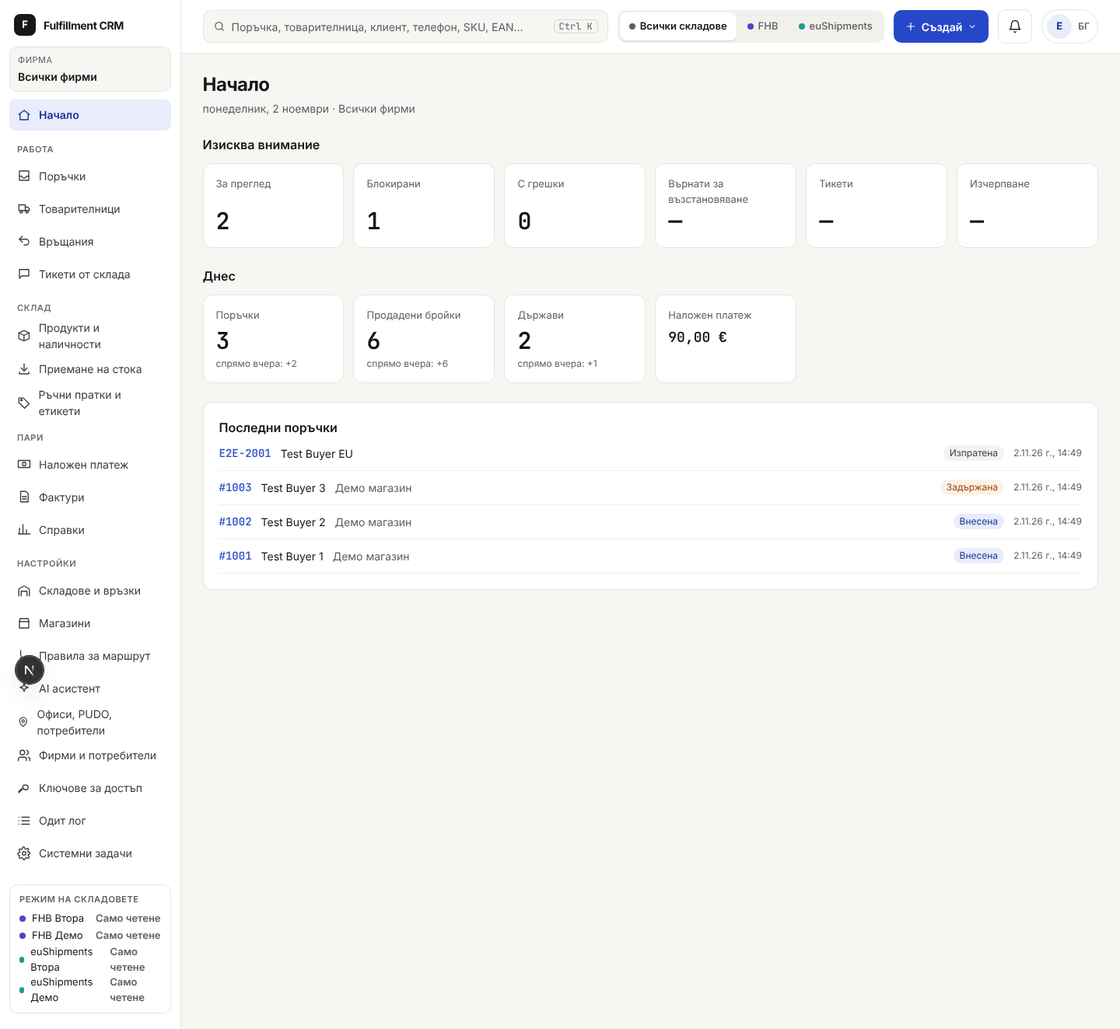
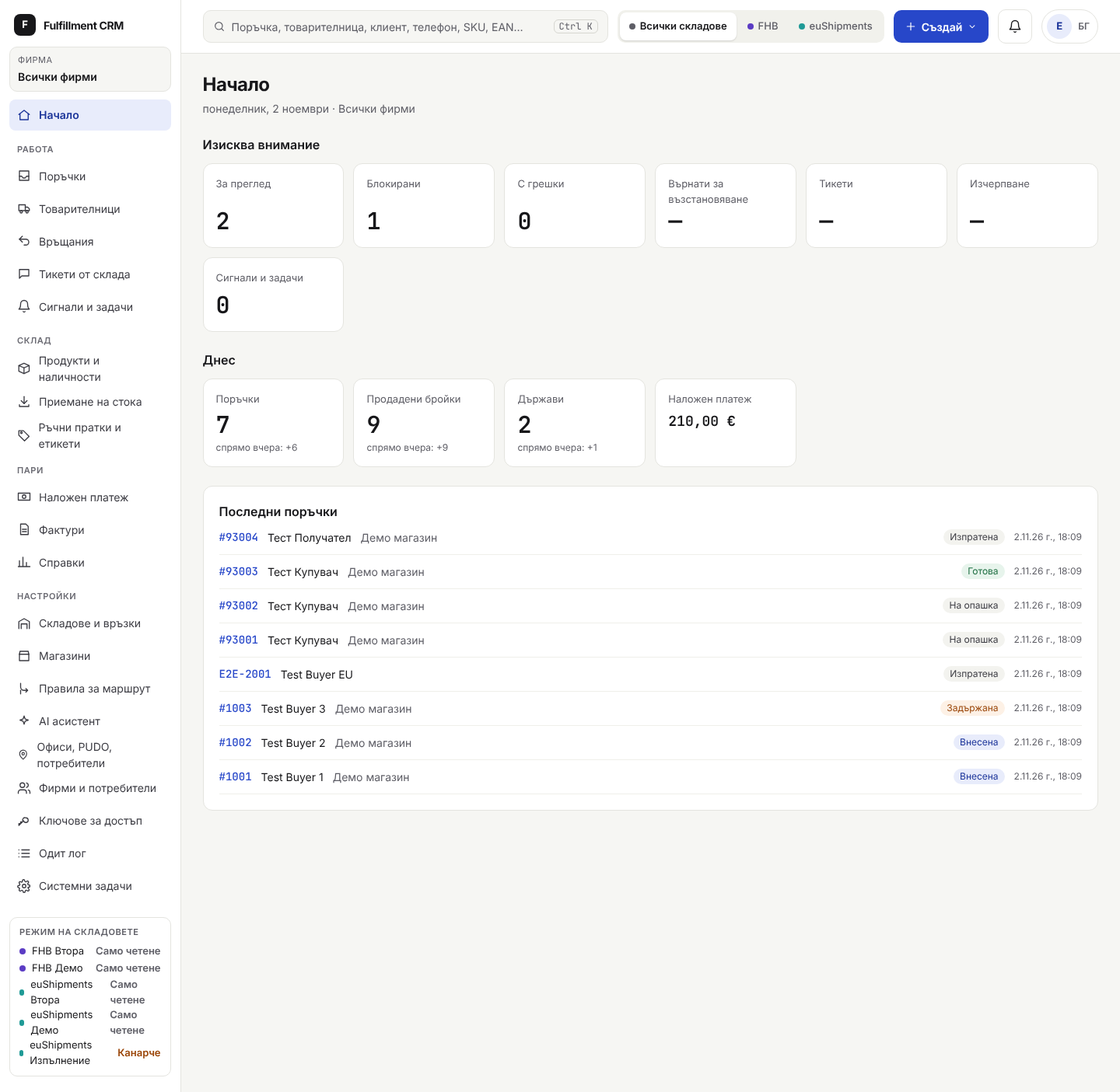
Wave 2 docs + e2e on a production build
- e2e runs against next build + next start by default (the dev server full-reloaded the login page in a loop
  on cold compiles under load); E2E_DEV=1 keeps next dev
- docs/audits/wave-2.md, docs/wave-2-notes.md, backlog P4-01..08 done, P4-09 and P5-00 added, progress

Claude-Session: https://claude.ai/code/session_01F3DAgXjb9pLKNH5LgMk1nD

diff --git a/playwright.config.ts b/playwright.config.ts
@@ -1,6 +1,7 @@
 import { defineConfig, devices } from "@playwright/test";
 
 const PORT = Number(process.env.E2E_PORT ?? 3100);
+const DEV = process.env.E2E_DEV === "1";
 
 export default defineConfig({
   testDir: "tests/e2e",
@@ -12,11 +13,17 @@ export default defineConfig({
   projects: [
     { name: "chromium", use: { ...devices["Desktop Chrome"], viewport: { width: 1440, height: 900 } } },
   ],
+  // Default: a production build (`next build` + `next start`), like Render. The dev server compiles routes on
+  // first use and, under load, full-reloads the login page in a loop. E2E_DEV=1 uses `next dev` for quick runs.
   webServer: {
-    command: `pnpm exec next dev --port ${PORT}`,
+    command: DEV ? `pnpm exec next dev --port ${PORT}` : `pnpm exec next build && pnpm exec next start --port ${PORT}`,
     url: `http://localhost:${PORT}/api/health`,
     reuseExistingServer: false,
-    timeout: 180_000,
-    env: { DATABASE_URL: process.env.E2E_DATABASE_URL ?? "", NODE_ENV: "development" },
+    timeout: DEV ? 180_000 : 600_000,
+    env: {
+      DATABASE_URL: process.env.E2E_DATABASE_URL ?? "",
+      NODE_ENV: DEV ? "development" : "production",
+      AUTH_URL: `http://localhost:${PORT}`,
+    },
   },
 });

diff --git a/docs/wave-2-notes.md b/docs/wave-2-notes.md
@@ -1,0 +1,202 @@
+# Wave 2 — builder notes (decisions, interfaces, behaviour changes)
+
+Verbatim hand-off notes of each wave-2 agent, in order. Synthetic data only.
+
+## build:core
+BLOCKED: []
+Branch wave2/core in /home/user/wt/w2-core has 3 commits. Nothing was pushed. Mark P4-01, P4-02 and P4-03 [x].
+
+INTERFACES FOR THE NEXT AGENTS
+- src/server/pipeline (P4-03)
+  - transition(tx, {orderId, to, cause, actor, source?, reason?, meta?, onlyFrom?, mode?}) and transitionOrder(accountId, input) are the only way to change Order.status.
+  - actor is {kind:"user",userId} | {kind:"system"} | {kind:"ai",level,policyId?}.
+  - mode "strict" (default for user and ai) throws TransitionError with code transition_not_allowed, transition_guard:<g> or transition_race. mode "follow" (default for system) returns {changed:false, reason}.
+  - Every move writes an OrderEvent in the same transaction. Moves by a user also write an AuditLog entry "order.status".
+  - Other helpers: recordInitialStatus (cause "created"), followShipment (vendor, forward only), registerGuard, and RULES / isAllowed / allowedTransitions / nextSteps for the decision bar.
+  - Causes: check_start, check_result, approve, reopen, hold, release (ON_HOLD → IMPORTED), cancel, shopify_cancelled, shopify_fulfilled, queue, submitting, submit_failed, vendor. VENDOR_FROM is the old euShipments ORDER_FROM table; statuses.ts re-exports it.
+  - Guards:
+    - approve: an AI actor needs level L2, and there must be an OrderCheck with hardCount 0 (no_check / hard_findings).
+    - cancel: users only, never with an active shipment (any Fulfillment not SUBMIT_FAILED/CANCELLED).
+    - release: refused for orders tagged shopify-test.
+  - P4-04: editing an order must call checkOrder again. P4-06: Fulfill should approve with cause "approve" and then call the existing submitFhbOrder / queueEuOrder, which now move the order to QUEUED themselves. The outbox liveMode gate is unchanged.
+- src/server/routing (P4-02)
+  - routeOrder(accountId, orderId) returns a RoutingDecision: connectionId/Name/Type, via rule|stock_fallback|none, ruleId, ruleNumber, ruleName, crossCompany, carrier {parcelService, courierId, serviceName, deliveryPointPolicy}, stock {status ok|insufficient|unknown, lines}, explanation {bg, en} (e.g. "Правило 3: BG + COD → FHB Kika; наличност OK"), and per-rule steps.
+  - loadRoutingContext + routeWithContext handle bulk; evaluateRouting / checkStock / describeMatch are pure.
+  - RoutingRule.match is the Zod RuleMatch {storeIds, countries, payment, tags (any), excludeTags, productIds (any line), requireStock}.
+  - Order of evaluation: priority ascending, first match wins, requireStock skips a rule without stock. The stock fallback picks an enabled FHB_V3/EUSHIPMENTS connection with stock for every line, own company first. FHB_JOY is never a routing target.
+  - Admin: list/create/update/delete/moveRoutingRule, permission routing.manage (OWNER/ADMIN), audited as routing.rule_created/updated/deleted/moved. Restricted members see and edit only rules whose connection and stores are in their companies.
+  - UI is /routing (already in the Настройки nav), with a "Пробвай с поръчка" box.
+- src/server/checks (P4-01)
+  - validateOrder(accountId, orderId, {connectionId?, persist?, now?}) returns {routing, connectionId, findings, hardCount, softCount, normalised {phone E.164, country}} and upserts the OrderCheck.
+  - Finding shape: {code, severity hard|soft, source order|routing|stock|fhb|eushipments, field, message_bg, message_en, suggestedFix?:{field, value}}. Findings are sorted hard first. euShipments codes are prefixed "eushipments."; "block" maps to hard.
+  - Vendor checks use the new read-only previewFhbOrderFindings (consumes no variable symbol) and previewEuOrderFindings (extracted from queueEuOrder; behaviour unchanged).
+  - checkOrder(accountId, orderId, {actor, connectionId?}) moves an order from IMPORTED/NEEDS_REVIEW/READY/APPROVED/SUBMIT_FAILED to CHECKING, then to READY when there are zero findings or NEEDS_REVIEW when there are any. Orders in other states are only re-validated.
+  - checkOrderAs(actor, ...) needs orders.review and the order in the actor's company scope. latestOrderCheck(accountId, orderId) returns the stored check.
+  - Queues: orders.check (stately, singletonKey orderId) and the orders.checkSweep cron (*/5), which picks up IMPORTED orders and orders stuck in CHECKING for more than 10 min.
+
+DECISIONS AND BEHAVIOUR CHANGES TO RECORD
+1. FHB now moves Order.status. Before, only Fulfillment.status moved (apply.ts said "left to P4-03"). Now: submitFhbOrder sets APPROVED/READY/SUBMIT_FAILED → QUEUED, which matches euShipments. A rejected create moves QUEUED/SUBMITTING → SUBMIT_FAILED. Order views follow the shipment forward only. An FHB or euShipments "deleted at vendor" still leaves the Order alone. A new test covers this.
+2. Once deployed, the worker's check sweep will move existing production orders that are IMPORTED to CHECKING and then READY or NEEDS_REVIEW. Nothing is auto-approved or sent.
+3. Findings live in OrderCheck. Review rows are left for P4-05, which should copy findings at decision time.
+4. A successful phone normalisation is not a finding. The E.164 value is in OrderCheck.normalised, so the UI can show original → corrected. Order-level COD rules need a CountrySetting for the destination, otherwise there is a hard finding.
+5. READY means no findings at all. Soft-only orders go to NEEDS_REVIEW.
+
+OPEN
+- The auditor subagent could not be run here; run it on wave2/core.
+- INTEGRATION_NOTES may want a line saying vendor statuses now drive Order.status for FHB too.
+
+## fix:core
+BLOCKED: []
+Wave 2 core audit fixes (commit 0b1d5e6).
+- The pipeline now gates submission. queueGate(tx, {orderId, userId, source, connectionId, rearmQueued}) must be called, with lockForUpdate('Order', id) held, before any vendor-write row is created. Only APPROVED or SUBMIT_FAILED orders can be queued; READY can no longer be queued. Wave-2 Fulfill/bulk code (P4-05/P4-06) must approve first and then submit.
+- Re-checking an APPROVED order means reopen (to NEEDS_REVIEW) and then checkOrder. checkOrder on an APPROVED order only validates and stores the check; the status does not change.
+- Approval needs a check whose stored fingerprint (OrderCheck.normalised.orderFingerprint) matches the current order data. Any edit to the recipient, address, amounts/COD, tags or lines needs a re-check. Approve accepts an optional meta.connectionId, which must equal check.connectionId (guard check_connection_mismatch). Checks stored before this change have no fingerprint and count as stale (dev data only).
+- A Shopify re-import that changes the data of a CHECKING/NEEDS_REVIEW/READY order moves it to IMPORTED (new system cause data_changed), and the existing sweep checks it again.
+- An AI actor is now {kind:'ai', level, policyId} with policyId required. The guard loads an enabled L2 AiPolicy with decisionType 'order_approval' (exported as AI_APPROVAL_DECISION). The P4/AI layer must create and use that decision type.
+- New TransitionError codes the UI should translate: transition_not_allowed (submit gate), transition_guard:check_stale, transition_guard:check_connection_mismatch, transition_guard:ai_policy_missing / ai_policy_disabled / ai_policy_not_l2, transition_guard:active_shipment.
+- Routing: a restricted admin no longer sees or changes rules that name another company's store. They cannot move a rule past an out-of-scope neighbour (routing_out_of_scope). The move action still swallows errors, as it did before.
+- Not changed: the LOW finding on fhb/apply.ts:308 is wrong. `message` is already built with scrubText(...) a few lines earlier (the 'rejected' case at about line 285), so the .slice(0, 500) is applied to scrubbed text. Left unchanged.
+- Follow-up (not done): the submit gate does not check that a fresh OrderCheck exists for the target connection, because the vendor queue functions run their own pre-flight for the actual connection. If routing/stock findings must also bind at submit time, add a queue guard and update the FHB/euShipments test fixtures, which create APPROVED orders without an OrderCheck. A reship after a vendor CANCELLED is refused by the gate, since CANCELLED is terminal; reships need their own cause when that feature is built.
+
+## build:review
+BLOCKED: []
+P4-04 and P4-05 are done, in one commit because the decision bar and the Review records depend on each other.
+
+Built:
+- src/server/review: diff.ts (pure; address edit schema, field-level diff), reasons.ts, service.ts (editOrderAddress, previewAddress, decideOrder), detail.ts (getOrderReview, listReviews).
+- src/app/actions/review.ts.
+- src/app/(app)/orders/[id]/page.tsx + review-ui.tsx (AddressEditor, ApplyFixButton, RecheckButton, DecisionBar, LazyDetails).
+- src/app/(app)/orders/reviews: review list and reason-code admin.
+
+Decisions:
+1. "Блокирай" maps to the existing pipeline cause `cancel`: the order goes to CANCELLED in the CRM only and Shopify is not touched. The Review decision is CANCEL. Reasons:
+   - The pipeline has no user path to BLOCKED; BLOCKED is vendor-reported, and the Shopify PRE_APPROVAL set excludes it.
+   - The ReviewDecision enum has no BLOCK value.
+   - Cancel stays refused while a shipment is active.
+   - Open question for the owner: if they want a reversible operator block instead, the core track needs a new pipeline cause/status and a new enum value.
+2. Review session model:
+   - The first address edit opens an undecided Review (decision null) for that reviewer, holding the findings seen at that moment.
+   - Each edit merges into its diff: the first `from` and the last `to` per field are kept, a field edited back to its start drops out, and each change records `via` = manual or suggested_fix:<code>.
+   - The decision closes the Review in the same transaction as the strict transition. A refused move rolls back the Review too.
+   - Approving with a non-empty diff is stored as EDIT_AND_APPROVE.
+3. Approve:
+   - Refused while the stored check has hard findings: an explicit "hard_findings" check plus the existing pipeline guards (no_check, check_stale).
+   - It only moves the order to APPROVED. No Fulfillment or outbox row is created.
+4. Address editing:
+   - Allowed only in IMPORTED, NEEDS_REVIEW, READY and ON_HOLD.
+   - Optimistic version check (Order.updatedAt), so a newer order is refused as "stale", not overwritten.
+   - Updates shippingAddress, Order.phone and Order.countryCode. The original stays in shippingAddressOriginal and is shown crossed out.
+   - Audited as order.address_edited, then re-checked with checkOrder.
+   - The Shopify import now also keeps an operator-corrected phone and country, not only the address.
+5. Suggested fixes: one click only for shippingAddress.* and phone. A COD suggestion is shown as text only, with the note that COD is corrected in Shopify.
+6. Time spent:
+   - Measured from the server-rendered openedAt, kept in client state so it survives refreshes after edits.
+   - Clamped to 0–2 h; a future timestamp is ignored. The client could forge it, but it is training data only.
+7. Reason codes:
+   - Built-in defaults (approve/hold/block plus "other", which requires a note) apply until the first admin change, which stores them.
+   - Codes are deactivated, never deleted. Required for hold and block, optional for approve.
+8. New permissions:
+   - orders.rawPayloads (OWNER, ADMIN): raw Shopify JSON, routing JSON and outbox payload/response on the order detail, mounted only when opened.
+   - reviews.read (OWNER, ADMIN, OPERATOR).
+   - reviews.reasonCodes (OWNER, ADMIN).
+9. Review list: /orders/reviews, linked from the order detail header. No sidebar item was added. It filters by decision, reason, reviewer, date range and order number, scoped to the member's companies, and shows counts per decision and the average time.
+
+E2E: seeded in its own synthetic group with its own OWNER (tests/e2e/seed-review.ts, env E2E_REVIEW_EMAIL/PASSWORD/TOTP) so other specs' order counts do not change.
+
+Hand-off to the Fulfill track (P4-06): put the Fulfill action in the order detail's DecisionBar area for APPROVED orders. getOrderReview already returns `fulfillments` and `check.connectionId`.
+
+Not done:
+- An index on Review(accountId, orderId/decidedAt). Not needed at current volume; it would change an existing model, so I left it out.
+- The FHB/euShipments payload preview ("show what will be sent") on the detail page. It is not in the P4-04 text; for orders already sent, the outbox payload is shown in the raw section.
+
+## fix:review
+BLOCKED: []
+P4-04/P4-05 audit fixes (wave2/review, commit 5aa6bba). Decisions taken: (1) A review cycle ends on any pipeline move out of IMPORTED/CHECKING/NEEDS_REVIEW/READY. One decision closes the review for every reviewer: the diffs of the cycle's open sessions are merged into the decider's Review, and the other sessions are marked reasonCode='superseded' with decidedAt set. Their decision stays null, so lists and the timeline never show them. (2) The Shopify re-import keeps an operator's correction when the address, Order.phone or countryCode differs from what the last import derived. No contactEditedAt column, so no schema change. (3) The payload preview is built from the queue functions' own pre-flight and builders, read-only. The FHB preview omits the notification URLs (HMAC tokens), which are added at submit time. It is shown for IMPORTED, NEEDS_REVIEW, READY, ON_HOLD, APPROVED and SUBMIT_FAILED. After that, the gated raw outbox section shows what was actually sent. (4) Блокирай stays irreversible (CANCELLED in the CRM). It now opens the operator task 'blocked_in_crm_open_in_shopify', and the UI needs an explicit acknowledgement. The open question for the owner is still open: should 'block' be reversible, or should it cancel in Shopify? (5) Raw payloads are never in the page or RSC payload. They load per section through rawPayloadAction (orders.rawPayloads), with tokens after /api/webhooks/ redacted. (6) releaseAction now calls the new releaseOrder service (strict, scoped, re-checks). All audit findings verified as correct; none rejected.
+
+## build:fulfill
+BLOCKED: []
+BACKLOG: mark P4-06, P4-07 and P4-08 [x].
+
+DECISIONS
+- P4-06 Fulfill (src/server/fulfill)
+  - Fulfill acts only on orders that are APPROVED, SUBMIT_FAILED or QUEUED. QUEUED only re-arms a request that never left: a dry run or a refusal.
+  - The warehouse is the one the order was approved for (OrderCheck.connectionId), or the warehouse of the shipment already queued.
+  - Fulfill refuses in these cases:
+    - the check fingerprint no longer matches the order (check_stale);
+    - the connection is disabled or READ_ONLY. This is an extra early refusal; the outbox sender is still the gate that counts.
+  - validateOrder is re-run against that connection without storing the result:
+    - a hard finding gives BLOCKED;
+    - a soft finding that was not in the reviewed check gives NEEDS_ACK until the operator acknowledges it.
+  - Then the existing submitFhbOrder or queueEuOrder is called. Carrier settings from routeOrder are used only when the routed warehouse is the approved one.
+  - Duplicate guard is in the database: the pipeline queueGate under the Order row lock, plus the unique keys on Fulfillment and the outbox. The loser of a race gets SKIPPED/already_submitted.
+  - Tests cover a double click, two operators at once, and bulk plus single on the same order; each ends in exactly one Fulfillment and one OutboundRequest.
+  - Bulk and single both create a persisted FulfillBatch:
+    - /orders/fulfill/[id] drives it step by step and shows a result per order;
+    - it can be reopened and resumed;
+    - items are claimed PENDING → RUNNING, and a RUNNING item older than 5 min can be picked again;
+    - at most 200 orders per batch.
+  - CANARY confirmation:
+    - confirmFulfillCanary works like the outbox's confirmCanary (same lock order, conditional write) but also accepts a request still PENDING, so the click can follow Fulfill directly;
+    - the dialog shows the exact stored payload and today's remaining cap, counted the way the sender counts;
+    - anyone with outbox.confirmCanary sees the payload, because the confirmer must see what is sent. This is wider than outbox.payloads (OWNER/ADMIN).
+    - In bulk, CANARY orders are queued too, but each still needs its own click.
+- P4-07 Shopify write-back (src/server/fulfill/writeback.ts, src/integrations/shopify/fulfillments.ts)
+  - The outbox table is bound to FulfillmentConnection, so the store side has its own outbox, ShopifyWriteBack, with the same discipline.
+  - The sweep (cron shopify.writeBack, every 2 min) creates one row per shipment when:
+    - the shipment is SHIPPED, DELIVERED or COD_PAID and has a tracking number;
+    - the order came from Shopify;
+    - the store is not READ_ONLY;
+    - the shipment shipped within the last 14 days, so raising a store's mode never notifies customers about old parcels.
+  - The sender gates on the store's current writeBackMode:
+    - READ_ONLY → REFUSED, nothing read or sent;
+    - DRY_RUN → reads the order's fulfillment orders and records the exact {mutation, variables}, which the order page shows;
+    - LIVE → sends fulfillmentCreate;
+    - the account kill switch or global pause → PAUSED.
+  - DRY_RUN records are re-armed and sent once the store goes LIVE (inside the window).
+  - Before every send and every retry, the order's fulfillments are read back by tracking number; a match means done.
+  - The mutation is sent with maxRetries: 0, because the existing ShopifyClient retries 5xx on every call.
+  - Shopify graphql_error, auth_failed or userErrors → FAILED plus a task. Any other failure → read back; if that also fails → UNCERTAIN plus a CRITICAL task.
+  - One fulfillmentCreate only covers fulfillment orders at a single location; a shipment spanning several locations becomes an operator task (multiple_locations).
+  - Customer notification follows Store.notifyCustomer.
+  - Each outcome is written as a FulfillmentEvent (source shopify.writeback) and to the audit log.
+- P4-08 Alerts and tasks (src/server/alerts, /alerts)
+  - One list with categories mapped from the kinds other modules write, plus company scope.
+  - Assign to me and resolve with a required note; history in AlertNote, every action in the audit log.
+  - The cron alerts.sweep (every 10 min) raises and auto-resolves order_blocked, order_unknown, order_submit_failed and order_stuck.
+  - Default stuck thresholds, in hours: CHECKING 1, APPROVED 24, QUEUED 4, SUBMITTING 1, ACCEPTED 48, PROCESSING 72, SHIPPED 240. Override with env ALERT_STUCK_HOURS as JSON.
+  - Notifications go through a provider interface, configured by env only:
+    - Telegram: TELEGRAM_BOT_TOKEN and TELEGRAM_CHAT_ID (Bot API sendMessage).
+    - Email: ALERT_EMAIL_WEBHOOK_URL (https), ALERT_EMAIL_TO and optional ALERT_EMAIL_WEBHOOK_TOKEN: a JSON POST {to, subject, text} to an HTTP mail relay, so no new SMTP dependency.
+    - NOTIFY_MIN_SEVERITY defaults to CRITICAL.
+    - An unset channel is disabled and logged.
+    - Each (alert, channel) is claimed once, so nothing is notified twice.
+    - Messages hold only the title, severity and a link, never the alert body.
+  - New permission alerts.manage: OWNER, ADMIN, OPERATOR, WAREHOUSE.
+  - Начало gets a "Сигнали и задачи" attention card, and the header bell links to /alerts.
+
+OPEN QUESTIONS FOR THE OWNER
+1. Which mail relay or provider sends the alert emails? The code expects an HTTP endpoint at ALERT_EMAIL_WEBHOOK_URL.
+2. Set TELEGRAM_BOT_TOKEN and TELEGRAM_CHAT_ID on the Render worker if you want Telegram alerts.
+3. At GATE P1-G1 the Shopify app needs write_merchant_managed_fulfillment_orders (it is already in SPEC §4).
+4. Are the stuck-hours defaults right?
+
+LEFT / FOLLOW-UPS
+- The routing rule's deliveryPointPolicy is not turned into a pickup point at Fulfill. An FHB or euShipments PUDO order without a point is blocked by the vendor validators.
+- REFUSED write-back rows have no "send again" button.
+- Alert body text is not shown in the list.
+- Saved views for the alerts list.
+
+Before merging, an auditor pass over the three commits is still needed.
+
+## fix:fulfill
+BLOCKED: []
+Wave 2 fulfill track, audit fixes (commit 067bf36):
+- Acknowledging warnings: the server action signature changed to retryFulfillItemAction(batchId, itemId, acknowledgedCodes: string[]). The UI sends the codes it shows on the row, and the server keeps only those that are also in the item's STORED NEEDS_ACK findings. A fresh validation never widens the set.
+- FHB: fulfillOrder now passes acknowledgedCodes (reviewed check ∪ acknowledged) to submitFhbOrder instead of acknowledgeWarnings:true. FHB pre-flight codes are the same strings in the validator engine (fromFhb keeps f.code), so they can be compared directly.
+- Routing change: implemented as a soft routing.changed finding (NEEDS_ACK), not BLOCKED, so an order whose rules changed after approval is not stuck. The message names both warehouses and carriers. Once acknowledged, the order goes to the APPROVED warehouse with the carrier that applies there now (null if the rule moved away). A manual approval for a non-routed warehouse (routed elsewhere already at review) is not flagged, because nothing changed relative to what was reviewed.
+- Leftover QUEUED shipment at another connection: BLOCKED connection_mismatch, with a hard routing.connection_mismatch finding.
+- CANARY: confirmCanaryAction(requestId, payloadHash). The hash is the sha256 of the stored jsonb payload; a matching hash plus a conditional write on updatedAt is required.
+- Shopify existingFulfillment, deviation from the auditor's fix: 2026-10 FulfillmentStatus is CANCELLED, ERROR, FAILURE, SUCCESS (OPEN and PENDING no longer exist). The code excludes CANCELLED, ERROR and FAILURE, and counts every other status (SUCCESS, or one Shopify adds later) as done. An unknown status therefore never leads to a second fulfillment.
+- graphql_error counts as definite only when every errors[].extensions.code is in DEFINITE_GRAPHQL_CODES (src/integrations/shopify/fulfillments.ts).
+- Alert sweep: when an order has no OrderEvent into its current status (it was imported straight into it), any earlier resolution of that alert kind suppresses a new one. Real transitions always write an event, so a new episode raises a new alert.
+- Process: I had no auditor subagent tool in this run, so CLAUDE.md's "auditor before every commit" step was not performed by me. The independent audit these fixes answer was the review. Full checks were re-run on HEAD: typecheck, lint, 798 unit tests and 3 e2e tests all pass.

diff --git a/docs/audits/wave-2.md b/docs/audits/wave-2.md
@@ -1,0 +1,46 @@
+# Wave 2 audit (phase 4: pipeline, checks, routing, review, fulfill, write-back, alerts)
+
+Core built first, audited and fixed; then the review and fulfill tracks were built on it in parallel worktrees, each
+audited by an independent `auditor` and fixed (every CRITICAL/HIGH/MEDIUM with a test). Builder notes: `docs/wave-2-notes.md`.
+
+## core — verdict FAIL → fixed
+
+| Severity | Where | Finding | Fix |
+|---|---|---|---|
+| HIGH | `src/server/fhb/orders.ts:355-362 and src/server/eushipments/write.ts:508-516 (with src/ser` | The pipeline does not gate submission. Both submit paths create the Fulfillment and the outbox request first, then call transition(..., cause:'queue', mode:'follow'). If the order is in any state the queue rule does not allow (CANCELLED, ON_HOLD/shopify-test, CHECKING, NEEDS_REVIEW, IMPORTED), the transition is a silent no-op and the vendor write still commits. Neither function checks Order.status | Use the transition as the gate. In both submit paths call transition(tx,{cause:'queue', to:'QUEUED', actor:user, mode:'strict', onlyFrom:['APPROVED','SUBMIT_FAILED']}) BEFORE creating the Fulfillment/outbox row, in the same transaction, and let TransitionError abort it. Do not allow READY->QUEUED. A |
+| HIGH | `src/server/checks/validate.ts:259-291 and src/server/pipeline/rules.ts:88-92` | checkOrder is not atomic. check_start (APPROVED/SUBMIT_FAILED/READY -> CHECKING) commits in tx1, validateOrder runs outside any lock, and check_result (CHECKING -> READY/NEEDS_REVIEW) runs in tx2. Scenario: an operator clicks re-check on an APPROVED order while another operator (or a P4-06 bulk run) submits it. Submit's queue transition from CHECKING is a follow no-op, so the Fulfillment is QUEUED | Remove APPROVED from check_start's from-list (re-checking an approved order should be reopen -> NEEDS_REVIEW first). In check_result, refuse if the order gained an active Fulfillment since check_start: add a guard on check_result that counts fulfillments not in SUBMIT_FAILED/CANCELLED, and make the  |
+| MEDIUM | `src/server/pipeline/transition.ts:99-106` | The approve guard accepts any stored OrderCheck with hardCount 0, however old it is and whichever connection it validated. Shopify re-import (/home/user/wt/w2-core/src/server/shopify/orders.ts:223) overwrites the address, phone, COD amount, tags and total on READY/NEEDS_REVIEW orders without running the check again or invalidating it. An order whose address was blanked or whose COD changed in Shop | In the approve guard, require check.checkedAt >= order.updatedAt (select updatedAt in transition's order read), and pass and compare meta.connectionId against check.connectionId. In importShopifyOrder, when an existing PRE_APPROVAL order's data changes, move READY/NEEDS_REVIEW back through check_sta |
+| MEDIUM | `src/server/pipeline/transition.ts:96` | AI approval trusts a caller-supplied actor.level. Any code path can pass {kind:'ai', level:'L2'} and the guard never loads an AiPolicy. CLAUDE.md says AI auto-approval is allowed only when an AiPolicy at L2 allows it, so the guard does not enforce the rule it claims to. | For AI actors, require policyId. In the guard, load tx.aiPolicy.findUnique({where:{id:policyId}}) scoped to the account and refuse unless it exists, is enabled and has level L2 for this scope. Test that a forged level with a missing or L1 policy is refused. |
+| MEDIUM | `src/server/routing/rules.ts:159-215` | Restricted (company-scoped) admins can change routing for other companies. moveRoutingRule swaps the in-scope rule with its neighbour in the FULL list and renumbers every priority, so an out-of-scope company's rule can be pushed below theirs. Rules with no store condition match every order, so this changes which warehouse ships another company's orders. deleteRoutingRule/loadInScope check only the | In moveRoutingRule, swap only with the nearest neighbour that is also in the actor's scope, or refuse moving restricted actors past out-of-scope rules. In loadInScope, also require every match.storeIds store to be in scope. Add tests for both cases with a scoped ADMIN. |
+| LOW | `src/server/pipeline/pipeline.test.ts:118` | The task requires 'tests for every transition', but forbidden moves are only tested on samples. No test enumerates all (cause, from, to, actor) combinations outside RULES and asserts refusal, and no test covers the submit paths on non-queueable states or concurrent writers. A widened rule (e.g. READY in queue) or a missing onlyFrom would not be caught. | Add an exhaustive test over every cause x status x status x actor not in allowedTransitions(), asserting isAllowed is false and that transition() refuses in strict mode. Add the submit-gate and race tests listed above. |
+| LOW | `src/server/fhb/apply.ts:308` | The FHB rejection text goes into OrderEvent.reason with only a slice and no scrubbing. Vendor validation messages can echo recipient name, phone or address. The euShipments path uses scrubText(error, 500). | Use scrubText(message, 500), as in eushipments/effects.ts. |
+
+## review — verdict PASS → fixed
+
+| Severity | Where | Finding | Fix |
+|---|---|---|---|
+| MEDIUM | `src/server/shopify/orders.ts:171-195 (addressUntouched) with src/server/review/diff.ts:156` | The import treats 'untouched' as 'shippingAddress still equals the normalised original'. A phone-only correction can leave shippingAddress byte-identical. Scenario: Shopify sends order-level phone '0888111222' and shippingAddress.phone '+359888111222'. The editor shows Order.phone '0888111222' and the operator sets it to '+359888111222' (for example via the one-click suggested fix). applyEdit writ | Make 'untouched' cover the contact fields as well. Compute addressUntouched && existing.phone === derivePhone(existing.raw) && existing.countryCode === normaliseAddress(existing.shippingAddressOriginal)?.countryCode, where derivePhone is the same o.phone ?? shippingAddress.phone ?? customer phone ex |
+| MEDIUM | `src/server/review/service.ts:63-75 (openSession) and 268-283 (decideOrder)` | Review sessions belong to a reviewer, not to a review cycle, and nothing ever closes or discards an undecided one. Scenario 1: operator A corrects the zip, which opens session SA with a diff. Operator B then approves, so B's Review is APPROVE with an empty diff, which is wrong because the order was corrected. SA stays open forever. Scenario 2: later the order is reopened (APPROVED to NEEDS_REVIEW) | When any decision closes the order's review (inside the decideOrder transaction), either merge every undecided Review for that order into the closing Review, or mark the other undecided sessions for the order as superseded (store decidedAt with a null decision, or set a reasonText marker), so later  |
+| MEDIUM | `src/app/(app)/orders/[id]/page.tsx (whole screen) vs docs/DESIGN.md:20 and :72-73` | P4-04's acceptance is 'Order detail per docs/DESIGN.md'. DESIGN principle 4 reads: "Show what will be sent. Order detail shows the routing rule and the exact vendor payload." Screen 3 reads: "pre-flight checks, routing + payload preview, timeline, sticky decision bar". The payload preview for orders that have not been sent yet is missing, and the builder lists it under 'Not done'. The operator app | Render the built payload on the detail page from the existing pure builders (buildCreateOrder from previewEuOrderFindings, and the FHB mapper used by its preflight). Read-only, no vendor call. Alternatively mark the payload-preview part of P4-04 as [!] or split it into its own backlog item, so the t |
+| MEDIUM | `src/server/review/service.ts:249-256 (TARGET.block), src/app/(app)/orders/[id]/review-ui.t` | 'Блокирай' (keyboard R) moves the order to CANCELLED, which has no outgoing user transition, so it cannot be undone. Nothing happens on the Shopify side and no task is opened. The order stays open and unfulfilled in Shopify, and later re-imports only update the status fields (orders.ts:133-136 returns early for CANCELLED). An operator who uses R for 'reject' or 'reroute', or who marks an order as  | Open an operator task in the same transaction when a review blocks an order (for example 'blocked_in_crm_open_in_shopify'), so the shop side is handled. Until the owner answers the open question about a reversible block, show an explicit irreversibility warning in the confirm step. Add a test that t |
+| MEDIUM | `src/server/review/review.test.ts:72-351` | Several behaviours this change claims have no tests: previewAddress company scoping (not_found outside the member's companies); editing in ON_HOLD and refusing it in CANCELLED or SUBMIT_FAILED; releaseAction (including the shopify-test guard); the two-operator and duplicate-submit cases for edit+decide; a countryCode edit updating Order.countryCode; the stale check after a real concurrent edit (th | Add the missing cases listed above. At line 145, compare shippingAddressOriginal to a snapshot taken before editOrderAddress. In the re-import test, change countryCode in the edit and assert after.countryCode. |
+| LOW | `src/server/review/detail.ts:309 (listReviews)` | listReviews has no RBAC check of its own. The 'reviews.read' check only happens in the page (reviews/page.tsx:22). Every other service in this change calls assertCan internally, so a future caller of listReviews (an export, an API route) would expose review diffs, which contain customer phones and addresses, to VIEWER. | Take the role in ListCtx and call assertCan(ctx.role, 'reviews.read') at the top of listReviews. Add a VIEWER-forbidden test. |
+| LOW | `src/app/(app)/orders/[id]/review-ui.tsx:516-524 (LazyDetails) and page.tsx:369-407` | The children are server-rendered and passed into a client component, so the raw Shopify JSON and the outbox payload and lastResponse are serialized into the RSC payload whether or not the details element is opened. The claim 'mounted only when opened' is true only for the DOM. Once the FHB sender exists, the outbox payload will contain the order-notification URLs with HMAC callback tokens (src/ser | Load raw payloads on demand through a server action gated by orders.rawPayloads when a section is opened. Also redact URL tokens (any path segment after /api/webhooks/) from outbox payloads before returning them. |
+| LOW | `src/app/(app)/orders/[id]/page.tsx:422` | canRelease is just status === 'ON_HOLD'. Shopify test orders are imported as ON_HOLD, and the release guard always refuses them (transition.ts release guard 'shopify_test_order'), so the button is shown but always fails. | Pass canRelease = status === 'ON_HOLD' && !order.tags.includes(SHOPIFY_TEST_TAG) && canReview. |
+
+## fulfill — verdict FAIL → fixed
+
+| Severity | Where | Finding | Fix |
+|---|---|---|---|
+| HIGH | `src/server/fulfill/fulfill.test.ts:72-213 (covers src/server/fulfill/fulfill.ts:109-176)` | All Fulfill tests use only the euShipments group (euTestGroup). The FHB_V3 branch of fulfillOrder has no test at all. That branch covers: submitFhbOrder with acknowledgeWarnings:true; mapping fhb_already_submitted and TransitionError to SKIPPED; mapping FhbPreflightError to BLOCKED. Yet FHB POST /order has no test flag and every send is a real order. Several paths the builder lists as duplicate-sa | Add an FHB fulfillOrder suite with mocked transport and synthetic data. It needs: (a) Promise.all of three fulfillOrder calls from two different userIds, asserting exactly 1 Fulfillment and 1 OutboundRequest; (b) bulk plus single on the same order; (c) an order in SUBMIT_FAILED (request FAILED), whe |
+| MEDIUM | `src/server/fulfill/fulfill.ts:106-107, 117, 126-128; src/server/fulfill/batch.ts:135-149` | The acknowledgement is one boolean, not the set of warnings the operator actually saw. retryFulfillItem({acknowledge:true}) runs validateOrder again. Any soft finding that appeared after the NEEDS_ACK result was shown is then accepted without being seen: for euShipments every fresh soft code goes into `acknowledged`, and for FHB the code passes acknowledgeWarnings:true unconditionally. Scenario: t | Store the codes of the NEEDS_ACK findings on the batch item. retryFulfillItem then passes `acknowledgedCodes: string[]` taken from the stored item, never from a fresh validation. In fulfillOrder, return NEEDS_ACK again if newSoft contains any code that is not in acknowledgedCodes. For euShipments pa |
+| MEDIUM | `src/server/fulfill/fulfill.ts:83, 109` | Routing explanation versus what is executed. (1) The connection comes from `order.fulfillments[0]` (any QUEUED shipment) BEFORE `order.check.connectionId`. If an order has a leftover QUEUED shipment at warehouse A but was re-checked and approved for B, it is sent to A and the approval for B is ignored silently, while the fingerprint check compares against B's check. (2) When routeOrder now picks a | Use order.check.connectionId as the source of truth. If a QUEUED Fulfillment exists at a different connection, return BLOCKED 'connection_mismatch'. When routing.connectionId !== connectionId, return BLOCKED or NEEDS_ACK with code 'routing_changed', and put both warehouses in the findings, instead o |
+| MEDIUM | `src/server/fulfill/writeback.ts:356-357` | Any ShopifyError with code graphql_error on fulfillmentCreate is treated as 'nothing was executed' and finalized FAILED, with only a WARNING task and no read-back. Shopify also returns top-level `errors` with HTTP 200 for INTERNAL_SERVER_ERROR and timeouts during execution, and in those cases the mutation may have been applied. The operator then sees 'Shopify fulfillment needs an operator' and may | Only treat graphql_error as definite when the error codes (ShopifyError carries the extensions codes) are ACCESS_DENIED, a parse or validation error, or similar. For anything else, including INTERNAL_SERVER_ERROR or no code, take the same path as an unknown outcome: read back by tracking number, the |
+| MEDIUM | `src/server/alerts/alerts.ts:287-300` | The sweep looks for duplicates only among OPEN or ACKNOWLEDGED alerts. Scenario: an operator resolves 'order_blocked' with a note while the order is still BLOCKED, for example after asking the warehouse. 10 minutes later the sweep creates a new CRITICAL alert for the same order, and dispatchNotifications sends it again on email and Telegram. This repeats every time someone resolves it. The 'resolv | Before raising, skip the alert when an alert of the same kind for the same entity was resolved after the order entered its current status. Use the latest orderEvent.toStatus=status createdAt and compare it with alert.resolvedAt. Add a test: resolve, sweep, and expect no new alert. |
+| MEDIUM | `src/server/fulfill/fulfill.ts:244-262; src/app/actions/fulfill.ts:91-96` | The CANARY confirmation is not tied to the payload the operator saw. confirmFulfillCanary takes only requestId and now also accepts PENDING requests. Scenario: the dialog is opened and shows payload P1. The request then goes through a mode change (AWAITING → PENDING → DRY_RUN_RECORDED) and is re-armed by another Fulfill with payload P2, PENDING, confirmedAt null. The connection goes back to CANARY | Return the request's updatedAt, or a hash of its payload, in CanaryView. Have confirmCanaryAction send it back. Add that value to the updateMany WHERE clause, for example `updatedAt: seenUpdatedAt`, so that a re-armed request gives not_confirmable. Add a test that re-arms between the view and the co |
+| MEDIUM | `src/server/fulfill/writeback.test.ts:105-284` | Write-back tests are missing several safety paths. There is no test for: a stale SENDING row with evaluatedMode LIVE becoming UNCERTAIN plus a CRITICAL task (writeback.ts:87-107); a DRY_RUN stale row returning to PENDING; DRY_RUN_RECORDED re-armed only inside the 14-day window when the store is LIVE (writeback.ts:147-150); two processWriteBack calls running at once on the same row (SKIP LOCKED); t | Add DB tests for each path. The concurrent case should be Promise.all of two processWriteBack(id) calls with a counting mocked fetch, asserting exactly one fulfillmentCreate. |
+| LOW | `src/server/fulfill/writeback.ts:264-275, 364-374, 405-428` | FulfillmentEvent and audit entries are written only for sent, dry_run and already_fulfilled. FAILED, UNCERTAIN, REFUSED and PAUSED outcomes are not on the order timeline. INTEGRATION_NOTES §6 says 'Every production write is logged with request, response, user and mode, and visible on the order timeline', and the builder's notes say 'Each outcome is written as a FulfillmentEvent'. | Call event() (extended with 'failed', 'uncertain' and 'refused') from failVisibly, the UNCERTAIN branch and the REFUSED branch, including lastError and the request. |
+| LOW | `src/integrations/shopify/fulfillments.ts:107-112` | existingFulfillment treats any status other than CANCELLED as 'already done', and that includes ERROR and FAILURE. A failed Shopify fulfillment carrying our tracking number makes the row SENT, and nothing is ever written back. | Match only SUCCESS, OPEN or PENDING. Turn ERROR or FAILURE with our tracking number into an operator task instead of SENT. |
+| LOW | `src/server/fulfill/batch.ts:63-67, 100-118, 135-149` | A batch is loaded by id with no check on creator or company scope. A member with a company scope can run or retry another user's batch. Items outside their scope are then written as FAILED/not_found, which overwrites the results the other user expects and finalizes the batch. | In runFulfillBatch and retryFulfillItem, claim only items whose order is in actor.companyScope, using the same filter as getFulfillBatch. For retryFulfillItem, also check that the item belongs to the batchId passed by the action. |
+| LOW | `/home/user/wt/w2-fulfill (process)` | According to the builder, the auditor subagent was not run before the commits, which CLAUDE.md requires. Unit tests were also not re-run after the last P4-08 edit. | Re-run `pnpm typecheck && pnpm lint && pnpm test` on HEAD and record the result. typecheck passes in this review; tests were not re-run here. |
+

diff --git a/docs/BACKLOG.md b/docs/BACKLOG.md
@@ -53,17 +53,19 @@ Every task: tests written, `pnpm typecheck && pnpm lint && pnpm test` green, aud
 - [ ] P3-07 Update schemas/mappers to recorded responses.
 
 ## Phase 4 — Review queue and Fulfill
-- [ ] P4-01 Validator engine (hard/soft, suggested fixes) combining vendor validators.
-- [ ] P4-02 Routing rules engine + admin UI (store, country, payment, tags, stock) with explanation per order.
-- [ ] P4-03 Pipeline state machine (SPEC §6.1) with tests for every transition.
-- [ ] P4-04 Order detail per docs/DESIGN.md screen 2: editable normalised address with live validation, findings, timeline, raw payloads (admin).
-- [ ] P4-05 Review records: decision, field-level diff, reason codes, time spent (this is the AI training data).
-- [ ] P4-06 Single + bulk Fulfill through the outbox with progress UI; CANARY confirmation dialog + daily cap.
-- [ ] P4-07 Shopify fulfillment write-back with tracking (respects store write-back mode).
-- [ ] P4-08 Alerts/tasks UI: BLOCKED, UNKNOWN, stuck in status, submit failures; email/Telegram notifications.
+- [x] P4-01 Validator engine (hard/soft, suggested fixes) combining vendor validators.
+- [x] P4-02 Routing rules engine + admin UI (store, country, payment, tags, stock) with explanation per order.
+- [x] P4-03 Pipeline state machine (SPEC §6.1) with tests for every transition.
+- [x] P4-04 Order detail per docs/DESIGN.md screen 2: editable normalised address with live validation, findings, timeline, raw payloads (admin).
+- [x] P4-05 Review records: decision, field-level diff, reason codes, time spent (this is the AI training data).
+- [x] P4-06 Single + bulk Fulfill through the outbox with progress UI; CANARY confirmation dialog + daily cap.
+- [x] P4-07 Shopify fulfillment write-back with tracking (respects store write-back mode).
+- [x] P4-08 Alerts/tasks UI: BLOCKED, UNKNOWN, stuck in status, submit failures; email/Telegram notifications.
+- [ ] P4-09 Manual warehouse choice: before sending, "Изпрати от" with stock per warehouse of the same product line, reason required, checks re-run for the chosen connection, approval bound to it; after sending, "Пренасочи" only once the old warehouse confirmed the cancellation (never two shipments). Audited.
 - [ ] GATE P4-G1 Owner: review DRY_RUN results on real orders, switch one connection to CANARY, run canary orders, then LIVE.
 
 ## Phase 5 — Stock and inbound
+- [ ] P5-00 Product lines + master catalogue: each company in exactly one line (owner decision 2026-11-02); create master products from a chosen warehouse catalogue; match suggestions only within the line (SKU after prefix; barcode and name as hints only); Excel export/import of the mapping per line; coverage report (≥ 99% before LIVE); line filter on every screen; fallback warehouses only from the same line.
 - [ ] P5-01 Stock board (physical/free/reserved/sellable/Shopify qty, snapshot age) + discrepancy alerts.
 - [ ] P5-02 Inbound creation (product picker + XLSX/CSV upload) for FHB receipts and euShipments bookings; expected vs received; discrepancy tasks.
 - [ ] P5-03 Shopify inventory push with buffer and dry-run preview (disabled by default).

diff --git a/docs/PROGRESS.md b/docs/PROGRESS.md
@@ -102,6 +102,17 @@ Phase 0 — Foundation (tasks done; waiting for GATE P0-G1)
   spec findings verbatim in docs/wave-1-notes.md (INTEGRATION_NOTES updated where the code deviates). Nothing calls a vendor
   yet: new connections start READ_ONLY; FHB has no test flag (DRY_RUN only records), euShipments DRY_RUN uses testMode:true.
 
+- 2026-11-02 (wave 2, phase 4): order pipeline state machine (every Order.status change goes through
+  src/server/pipeline with an OrderEvent), validator engine (OrderCheck, hard/soft findings, suggested fixes),
+  routing rules + admin page, order review screen with editable address, decisions and review records, single/bulk
+  Fulfill through the outbox (CANARY confirmation bound to the payload), Shopify fulfillment write-back (store mode
+  gate in the sender), alerts/tasks list with email/Telegram providers (off until configured). Audit:
+  docs/audits/wave-2.md; notes: docs/wave-2-notes.md.
+  Behaviour change on deploy: the check sweep picks up existing IMPORTED orders and moves them to CHECKING, then
+  READY or NEEDS_REVIEW (they are only checked, nothing is sent).
+- 2026-11-02 decisions with the owner: operators can choose the warehouse by hand (P4-09); companies are grouped
+  into product lines, one line per company (P5-00); master products come from the warehouse catalogues.
+
 ## Open questions
 See SPEC.md §11.
 - For GATE P3-G1 (ask euShipments): (1) which endpoint returns a product's stored barcode (get-products has none) —
